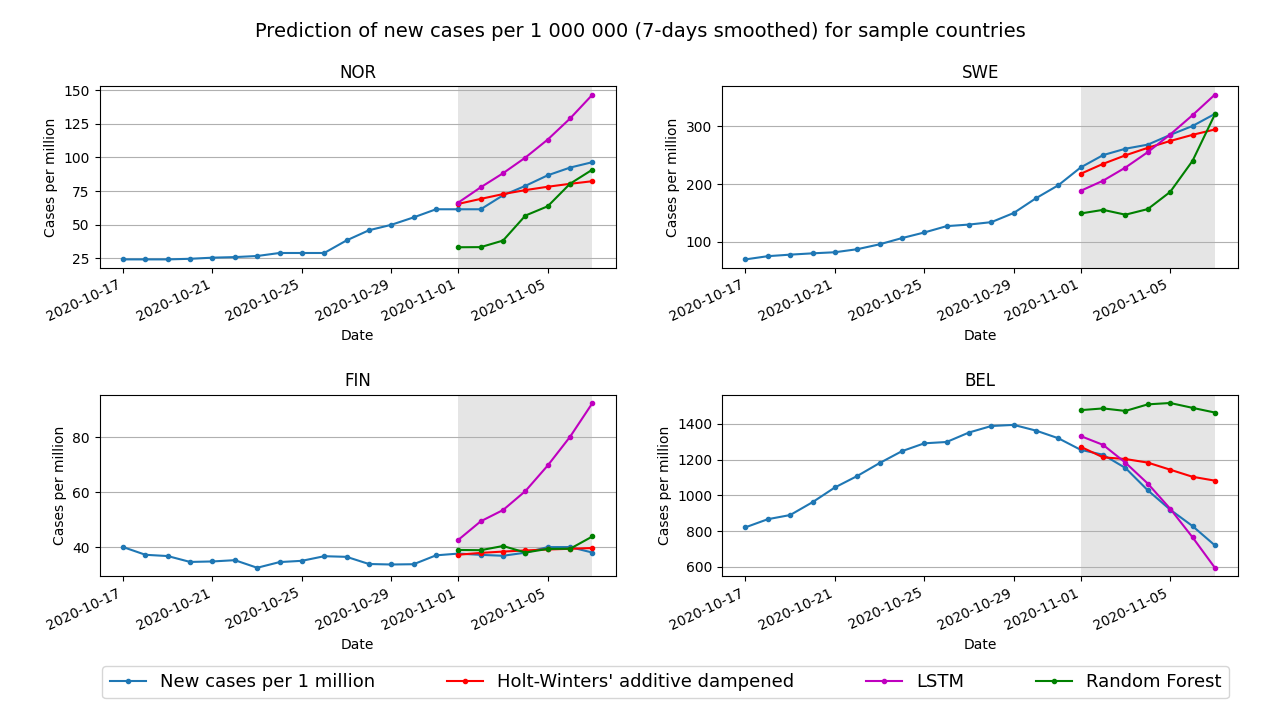
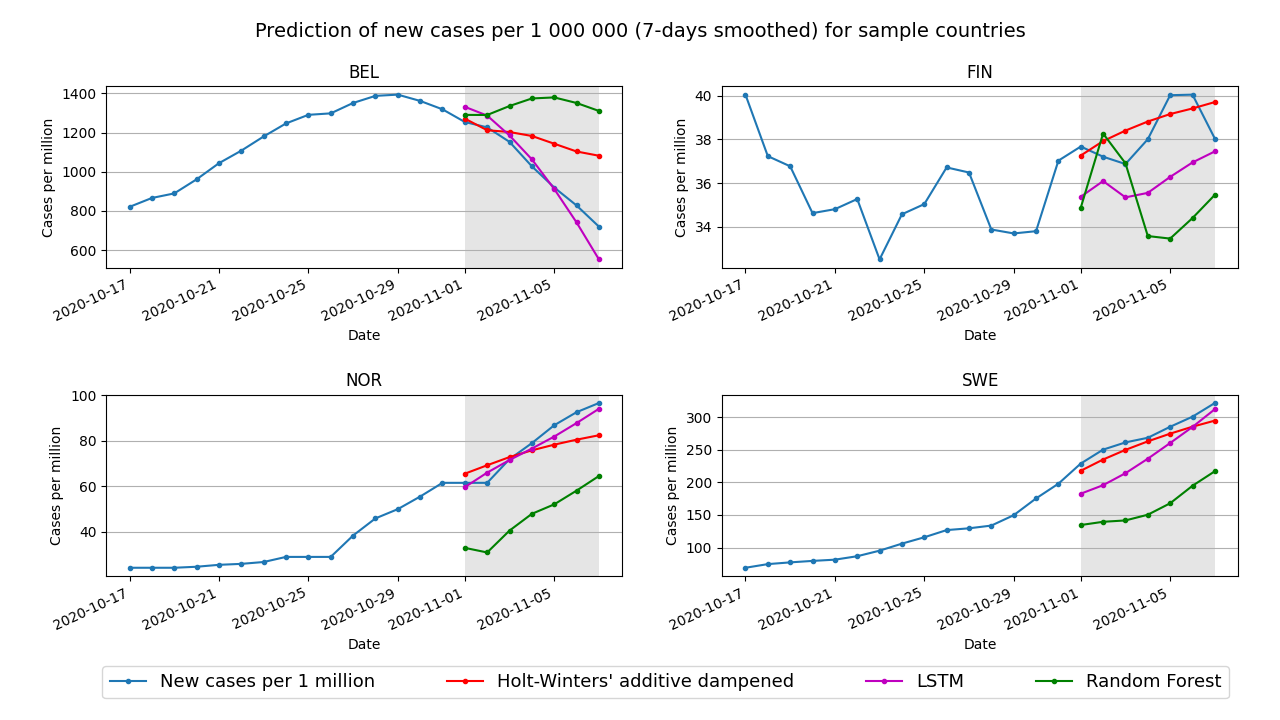
updated plots after new predictions generated

diff --git a/lstm/lstm_all_countries.py b/lstm/lstm_all_countries.py
@@ -10,6 +10,13 @@ from keras.models import Sequential
 from keras.layers import Dense
 from keras.layers import LSTM
 
+from tensorflow import random as tf_random
+from numpy.random import seed as np_set_seed
+
+
+tf_random.set_seed(0)  # Set the seeds for reproducible results
+np_set_seed(0)
+
 
 def series_to_in_out_pairs(data, n_in=1, n_out=1, leave_cols=None):
     """
@@ -203,7 +210,7 @@ for code in iso_codes:
     country_mse_list.append(country_mse)
 
     # Demo countries
-    if code in ["NOR", "SWE", "FIN", "BEL"]:
+    if code in ["BEL", "FIN", "NOR", "SWE"]:
         recent_history = raw_euro_data[raw_euro_data["iso_code"] == code]
         recent_history = recent_history[recent_history["date"] >= "2020-10-17"]
         recent_history = recent_history[recent_history["date"] <= "2020-11-07"]

diff --git a/plotting/prediction_plotting.py b/plotting/prediction_plotting.py
@@ -21,7 +21,7 @@ fig.set_size_inches(1920/150, 1080/150)
 for ax in axs.flat:
     ax.axvspan(pred_dates[0], pred_dates[-1], facecolor="0.5", alpha=0.2)
 
-for i, isoCode in enumerate(["NOR", "SWE", "FIN", "BEL"]):
+for i, isoCode in enumerate(["BEL", "FIN", "NOR", "SWE"]):
     hw_y = hw_pred["Holt-Winter Additive + Damped {:s}".format(isoCode)]
     lstm_y = lstm_pred["lstm_{:s}".format(isoCode)]
     rf_y = rf_pred["rf_{:s}".format(isoCode)]

diff --git a/plotting/dataset_plotting.py b/plotting/dataset_plotting.py
@@ -31,7 +31,7 @@ for isoCode in countryCodes:
 fig, axs = plt.subplots(2, 2)
 fig.set_size_inches(1920/150, 1080/150)
 
-for i, isoCode in enumerate(["NOR", "SWE", "FIN", "BEL"]):
+for i, isoCode in enumerate(["BEL", "FIN", "NOR", "SWE"]):
     countryData = euroData[euroData["iso_code"] == isoCode]
     countryName = (countryData.location.unique()[0])
     dateTimes = [datetime.strptime(date, "%Y-%m-%d") for date in countryData["date"]]
